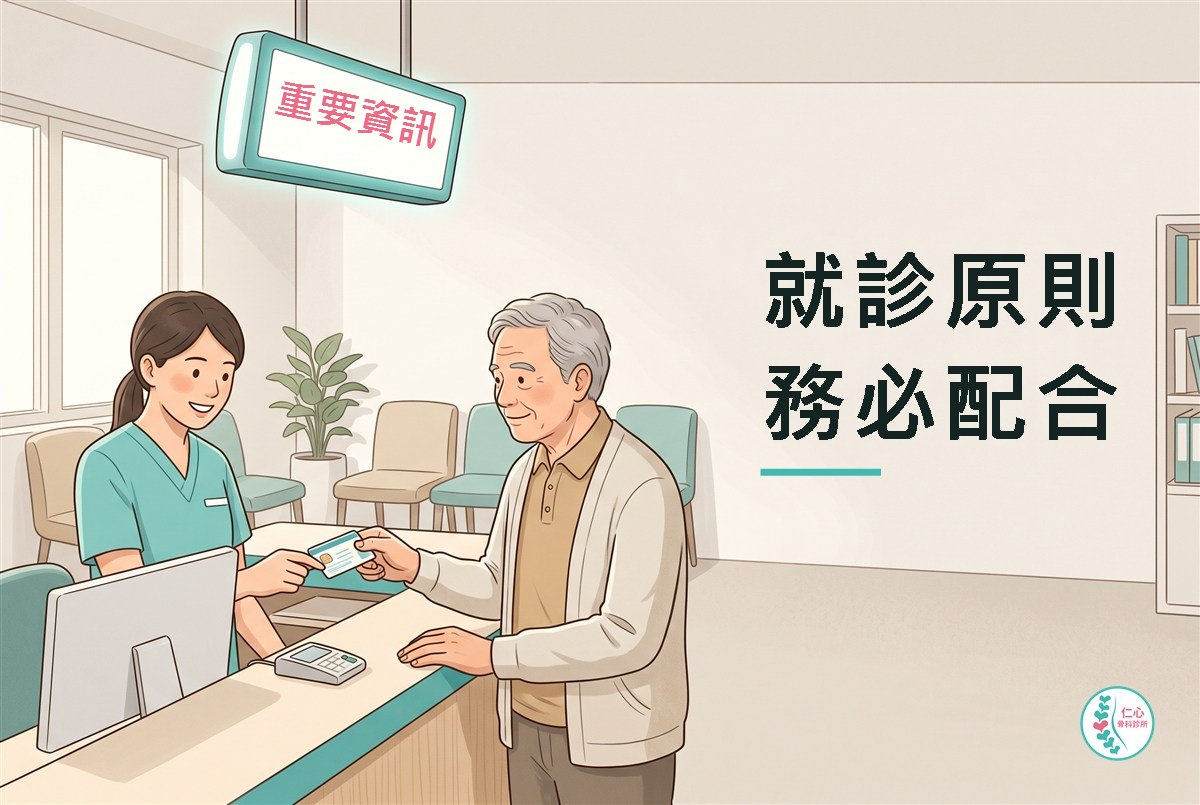
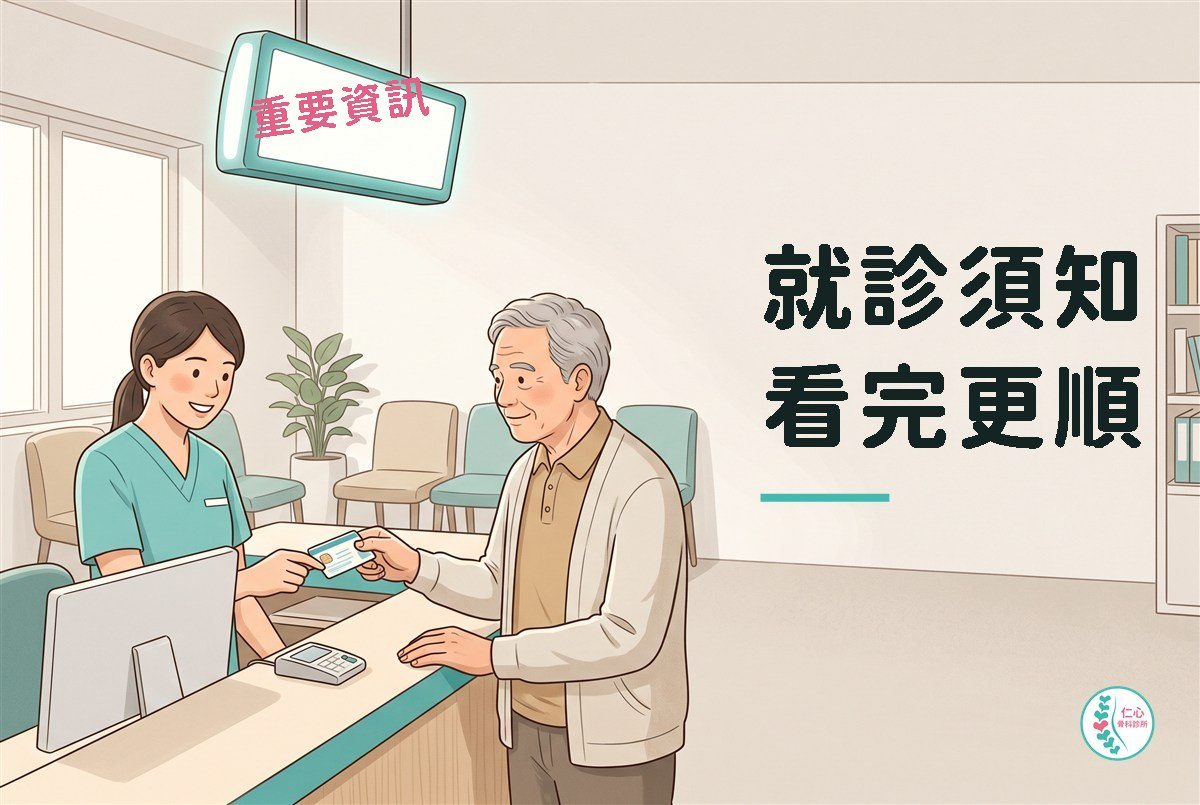
所有封面改用源泉圓體繁中版重出；就診那張換成新標題

Changed region(s): [[0.6167, 0.4348, 0.9558, 0.6211], [0.6167, 0.2795, 0.9558, 0.4037], [0.185, 0.0932, 0.37, 0.1863]]

diff --git a/public/index.html b/public/index.html
@@ -224,7 +224,7 @@
           </span>
         </a>
         <a class="card" href="20260901-calcific-tendonitis/" data-tag="仁心講骨">
-          <span class="card-cover"><img src="20260901-calcific-tendonitis/assets/cover.jpg?v=58f25dc6" alt="" loading="lazy" decoding="async"></span>
+          <span class="card-cover"><img src="20260901-calcific-tendonitis/assets/cover.jpg?v=a38b7a97" alt="" loading="lazy" decoding="async"></span>
           <span class="card-body">
             <span class="tag">仁心講骨</span>
             <h3>手指也會長石頭？</h3>
@@ -232,13 +232,13 @@
             <span class="card-foot">
               <span>林士傑醫師</span>
               <span>2026-09-11</span>
-              <span>更新 2026-09-15</span>
+              <span>更新 2026-09-16</span>
               <span class="counter" data-counter-view="rensin-20260901-calcific-tendonitis" hidden><b class="num">0</b> 次瀏覽</span>
             </span>
           </span>
         </a>
         <a class="card" href="20260903-fall-tailbone/" data-tag="仁心講骨">
-          <span class="card-cover"><img src="20260903-fall-tailbone/assets/cover.jpg?v=6f88f14e" alt="" loading="lazy" decoding="async"></span>
+          <span class="card-cover"><img src="20260903-fall-tailbone/assets/cover.jpg?v=9718a06d" alt="" loading="lazy" decoding="async"></span>
           <span class="card-body">
             <span class="tag">仁心講骨</span>
             <h3>跌倒頓ㄤ龜</h3>
@@ -246,13 +246,13 @@
             <span class="card-foot">
               <span>林士傑醫師</span>
               <span>2026-09-03</span>
-              <span>更新 2026-09-15</span>
+              <span>更新 2026-09-16</span>
               <span class="counter" data-counter-view="rensin-20260903-fall-tailbone" hidden><b class="num">0</b> 次瀏覽</span>
             </span>
           </span>
         </a>
         <a class="card" href="20260802-clinic-guide/" data-tag="診所公告">
-          <span class="card-cover"><img src="20260802-clinic-guide/assets/cover.jpg?v=6ed20fbf" alt="" loading="lazy" decoding="async"></span>
+          <span class="card-cover"><img src="20260802-clinic-guide/assets/cover.jpg?v=7dd1b371" alt="" loading="lazy" decoding="async"></span>
           <span class="card-body">
             <span class="tag">診所公告</span>
             <h3>就診須知，看完更順</h3>
@@ -260,7 +260,7 @@
             <span class="card-foot">
               <span>林士傑醫師</span>
               <span>2026-08-02</span>
-              <span>更新 2026-09-15</span>
+              <span>更新 2026-09-16</span>
               <span class="counter" data-counter-view="rensin-20260802-clinic-guide" hidden><b class="num">0</b> 次瀏覽</span>
             </span>
           </span>

diff --git a/public/20260901-calcific-tendonitis/index.html b/public/20260901-calcific-tendonitis/index.html
@@ -19,7 +19,7 @@
 <meta name="post:tag"       content="仁心講骨">
 <meta name="post:author"    content="林士傑醫師">
 <meta name="post:published" content="2026-09-11">
-<meta name="post:updated"   content="2026-09-15">
+<meta name="post:updated"   content="2026-09-16">
 <meta name="post:counter"   content="rensin-20260901-calcific-tendonitis">
 
 <link rel="stylesheet" href="../assets/site.css?v=86ae01bf">
@@ -52,7 +52,7 @@
         <h1>手指也會長石頭？</h1>
 
         <figure class="hero-figure hero-figure--cover">
-          <img src="assets/cover.jpg?v=58f25dc6"
+          <img src="assets/cover.jpg?v=a38b7a97"
                width="1200" height="805" loading="eager" decoding="async" fetchpriority="high"
                alt="插畫：一位中年女性抬起左手看著自己的拇指，拇指根部泛紅，表情困惑不安；畫面左側是文章標題「手指也會長石頭？」，右下角是仁心骨科診所標誌。">
         </figure>
@@ -63,7 +63,7 @@
       <p class="post-meta">
         <span class="author">作者：林士傑醫師</span>
         <span>發表 <time datetime="2026-09-11">2026-09-11</time></span>
-        <span>最後更新 <time data-post-updated datetime="2026-09-15">2026-09-15</time></span>
+        <span>最後更新 <time data-post-updated datetime="2026-09-16">2026-09-16</time></span>
         <span class="counter" data-counter-self="rensin-20260901-calcific-tendonitis" hidden><b class="num">0</b> 次瀏覽</span>
       </p>
     </div>
@@ -189,7 +189,7 @@
         <h4>本站</h4>
         <ul>
           <li>作者：林士傑醫師</li>
-          <li>本文最後更新：<time data-post-updated datetime="2026-09-15">2026-09-15</time></li>
+          <li>本文最後更新：<time data-post-updated datetime="2026-09-16">2026-09-16</time></li>
         </ul>
       </div>
     </div>

diff --git a/public/20260903-fall-tailbone/index.html b/public/20260903-fall-tailbone/index.html
@@ -19,7 +19,7 @@
 <meta name="post:tag"       content="仁心講骨">
 <meta name="post:author"    content="林士傑醫師">
 <meta name="post:published" content="2026-09-03">
-<meta name="post:updated"   content="2026-09-15">
+<meta name="post:updated"   content="2026-09-16">
 <meta name="post:counter"   content="rensin-20260903-fall-tailbone">
 
 <link rel="stylesheet" href="../assets/site.css?v=86ae01bf">
@@ -52,7 +52,7 @@
         <h1>跌倒頓ㄤ龜</h1>
 
         <figure class="hero-figure hero-figure--cover">
-          <img src="assets/cover.jpg?v=6f88f14e"
+          <img src="assets/cover.jpg?v=9718a06d"
                width="1200" height="805" loading="eager" decoding="async" fetchpriority="high"
                alt="插畫：一位長輩在濕滑的磁磚地上跌坐，屁股著地處泛紅，表情疼痛而錯愕，右上方寫著「跌倒頓ㄤ龜」。">
         </figure>
@@ -63,7 +63,7 @@
       <p class="post-meta">
         <span class="author">作者：林士傑醫師</span>
         <span>發表 <time datetime="2026-09-03">2026-09-03</time></span>
-        <span>最後更新 <time data-post-updated datetime="2026-09-15">2026-09-15</time></span>
+        <span>最後更新 <time data-post-updated datetime="2026-09-16">2026-09-16</time></span>
         <span class="counter" data-counter-self="rensin-20260903-fall-tailbone" hidden><b class="num">0</b> 次瀏覽</span>
       </p>
     </div>
@@ -194,7 +194,7 @@
         <h4>本站</h4>
         <ul>
           <li>作者：林士傑醫師</li>
-          <li>本文最後更新：<time data-post-updated datetime="2026-09-15">2026-09-15</time></li>
+          <li>本文最後更新：<time data-post-updated datetime="2026-09-16">2026-09-16</time></li>
         </ul>
       </div>
     </div>

diff --git a/public/20260802-clinic-guide/index.html b/public/20260802-clinic-guide/index.html
@@ -19,7 +19,7 @@
 <meta name="post:tag"       content="診所公告">
 <meta name="post:author"    content="林士傑醫師">
 <meta name="post:published" content="2026-08-02">
-<meta name="post:updated"   content="2026-09-15">
+<meta name="post:updated"   content="2026-09-16">
 <meta name="post:counter"   content="rensin-20260802-clinic-guide">
 
 <link rel="stylesheet" href="../assets/site.css?v=86ae01bf">
@@ -55,7 +55,7 @@
         </p>
 
         <figure class="hero-figure hero-figure--cover">
-          <img src="assets/cover.jpg?v=6ed20fbf"
+          <img src="assets/cover.jpg?v=7dd1b371"
                width="1200" height="805" loading="eager" decoding="async" fetchpriority="high"
                alt="插畫：診所櫃台，醫護人員微笑接過長輩遞來的健保卡，右側牆面寫著「重要資訊」。">
         </figure>
@@ -66,7 +66,7 @@
       <p class="post-meta">
         <span class="author">作者：林士傑醫師</span>
         <span>發表 <time datetime="2026-08-02">2026-08-02</time></span>
-        <span>最後更新 <time data-post-updated datetime="2026-09-15">2026-09-15</time></span>
+        <span>最後更新 <time data-post-updated datetime="2026-09-16">2026-09-16</time></span>
         <span class="counter" data-counter-self="rensin-20260802-clinic-guide" hidden><b class="num">0</b> 次瀏覽</span>
       </p>
     </div>
@@ -287,7 +287,7 @@
         <h4>本站</h4>
         <ul>
           <li>作者：林士傑醫師</li>
-          <li>本文最後更新：<time data-post-updated datetime="2026-09-15">2026-09-15</time></li>
+          <li>本文最後更新：<time data-post-updated datetime="2026-09-16">2026-09-16</time></li>
         </ul>
       </div>
     </div>
